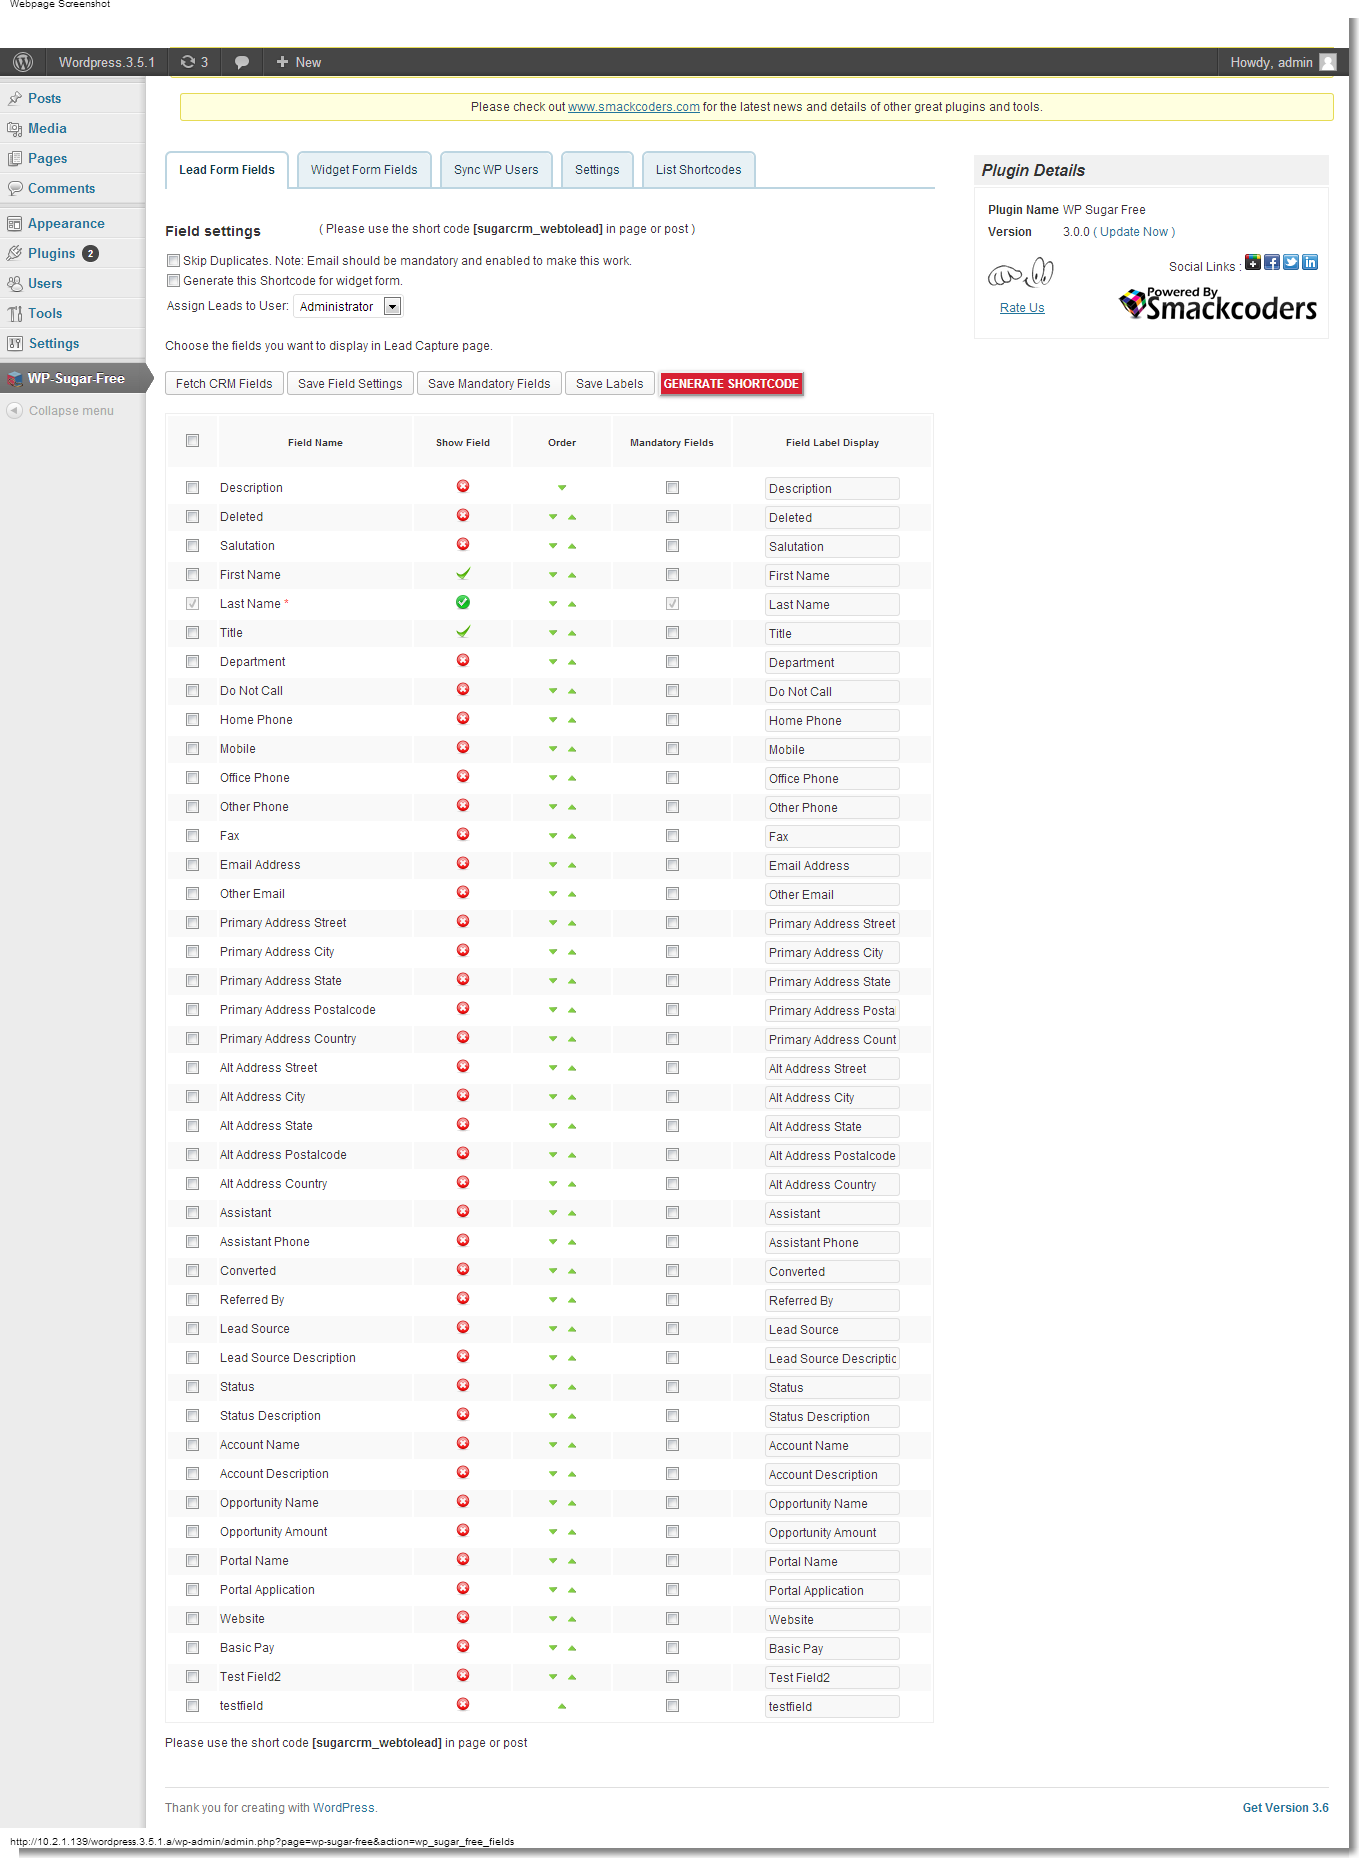
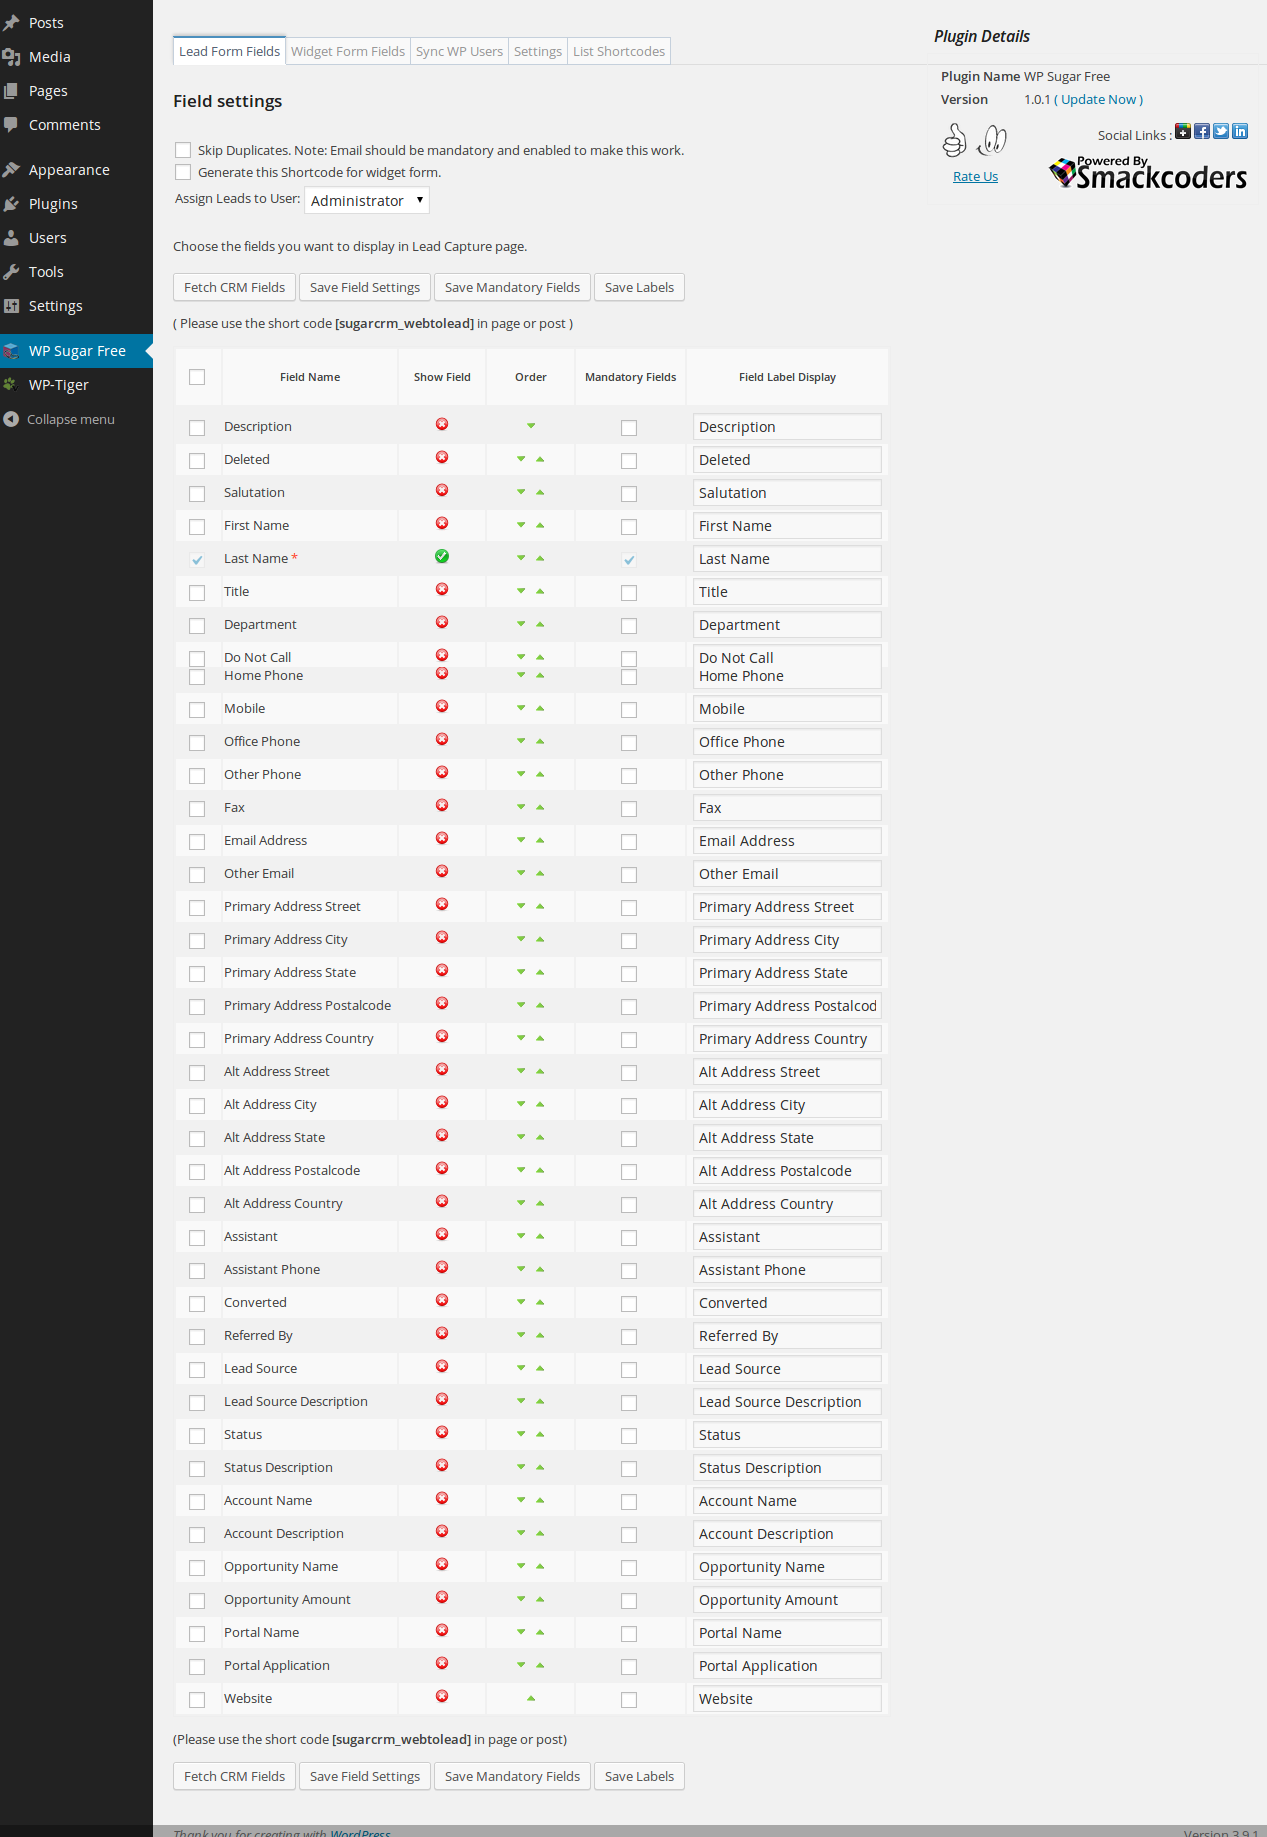
version 1.1.1 with minor bug fixes and Ui changes
git-svn-id: https://plugins.svn.wordpress.org/wp-sugar-free/trunk@927005 b8457f37-d9ea-0310-8a92-e5e31aec5664

diff --git a/widget-fields.php b/widget-fields.php
@@ -90,8 +90,8 @@ $content .= '<div class="sugar_free_left-side-content">
                         wpsugarfreesaveSettings();
                         </script>
                 <?php } 
-                        $content .= '<div style="width:20%;float:left;"><h3 class="title">Field settings</h3></div><div style="width:80%;float:right;"><p>( Please use the short code <b> [sugarcrm_webtolead_WG]</b> in page or post )</p></div><br/><br/>
-			<div style="margin-top:10px;">
+                        $content .= '<div style="width:20%;float:left;"><h3 class="title">Field settings</h3></div><br/>
+			<div style="margin-top:10px;"></br></br>
                         <div style="padding:2px;"><input type="checkbox" id="skipduplicate" onclick="wpsugarfreeupgradetopro()" /> Skip Duplicates. Note: Email should be mandatory and enabled to make this work. </div>
                         <div style="padding:2px;"><input type="checkbox" id="generateshortcode" onclick="wpsugarfreeupgradetopro()" /> Generate this Shortcode for widget form. </div>
                         <div style="padding:2px;">Assign Leads to User: <select id="assignto" onclick="wpsugarfreeupgradetopro()" ><option>Administrator</option><option>Standard User</option></select></div>
@@ -109,10 +109,8 @@ $content .= '<div class="sugar_free_left-side-content">
 			value="Save Mandatory Fields" onclick="wpsugarfreeupgradetopro()" /> <input
 			type="button" class="button-secondary submit-add-to-menu"
 			name="save_display_name" id="save_display_name" value="Save Labels"
-			onclick="wpsugarfreeupgradetopro()" /> <input type="button"
-			class="sugar-free-button-create-shortcode" name="create_shortcode"
-			id="create_shortcode" value="Generate Shortcode"
-			onclick="wpsugarfreeupgradetopro()" /><br/><br/>
+			onclick="wpsugarfreeupgradetopro()" /><br/>
+<div style="width:80%;"><p>( Please use the short code <b> [sugarcrm_webtolead_WG]</b> in page or post )</p></div>
 		<table class="sugar_free_tableborder">
 			<tr class="smack_sugar_free_alt">
 				<th style="width: 50px;"><input type="checkbox" name="selectall"
@@ -226,8 +224,21 @@ $imagepath = $contentUrl . '/plugins/wp-sugar-free/images/';
 				</tr>
 			</tbody>
 		</table>
-		<p>Please use the short code <b> [sugarcrm_webtolead_WG]</b> in page or post</p>
-		<input type="hidden" name="widget_field_posted"
+		<p>Please use the short code <b> [sugarcrm_webtolead_WG]</b> in page or post</p>';
+		$content .= '<input type="hidden" name="posted" value="posted" />
+                <br/>
+                <input type="button" class="button-secondary submit-add-to-menu"
+                        name="sync_crm_fields" value="Fetch CRM Fields"
+                        onclick="wpsugarfreeupgradetopro()" />
+                <input type="submit" value="Save Field Settings"
+                        class="button-secondary submit-add-to-menu" name="Submit" />
+                <input type="button" class="button-secondary submit-add-to-menu"
+                        name="make_mandatory" id="make_mandatory"
+                        value="Save Mandatory Fields" onclick="wpsugarfreeupgradetopro()" /> <input
+                        type="button" class="button-secondary submit-add-to-menu"
+                        name="save_display_name" id="save_display_name" value="Save Labels"
+                        onclick="wpsugarfreeupgradetopro()" />';
+		$content .='<input type="hidden" name="widget_field_posted"
 			value="posted" />
 
 	</form>

diff --git a/sugar-fields.php b/sugar-fields.php
@@ -103,8 +103,8 @@ $content .= '<div class="sugar_free_left-side-content">
                         wpsugarfreesaveSettings();
                         </script>
                 <?php } 
-                        $content .= '<div style="width:20%;float:left;"><h3 class="title">Field settings</h3></div><div style="width:80%;float:right;"><p>( Please use the short code <b> [sugarcrm_webtolead]</b> in page or post )</p></div><br/><br/>
-			<div style="margin-top:10px;">
+                        $content .= '<div style="width:20%;float:left;"><h3 class="title">Field settings</h3></div><br/><br/>
+			<div style="margin-top:10px;"></br>
                         <div style="padding:2px;"><input type="checkbox" id="skipduplicate" onclick="wpsugarfreeupgradetopro()" /> Skip Duplicates. Note: Email should be mandatory and enabled to make this work. </div>
                         <div style="padding:2px;"><input type="checkbox" id="generateshortcode" onclick="wpsugarfreeupgradetopro()" /> Generate this Shortcode for widget form. </div>
                         <div style="padding:2px;">Assign Leads to User: <select id="assignto" onclick="wpsugarfreeupgradetopro()" ><option>Administrator</option><option>Standard User</option></select></div>
@@ -122,10 +122,7 @@ $content .= '<div class="sugar_free_left-side-content">
 			value="Save Mandatory Fields" onclick="wpsugarfreeupgradetopro()" /> <input
 			type="button" class="button-secondary submit-add-to-menu"
 			name="save_display_name" id="save_display_name" value="Save Labels"
-			onclick="wpsugarfreeupgradetopro()" /> <input type="button"
-			class="sugar-free-button-create-shortcode" name="create_shortcode"
-			id="create_shortcode" value="Generate Shortcode"
-			onclick="wpsugarfreeupgradetopro()" /><br/><br/>
+			onclick="wpsugarfreeupgradetopro()" /> <div style="width:80%;"><p>( Please use the short code <b> [sugarcrm_webtolead]</b> in page or post )</p></div>
 		<table class="sugar_free_tableborder">
 			<tr class="smack_sugar_free_alt">
 				<th style="width: 50px;"><input type="checkbox" name="selectall"
@@ -239,11 +236,21 @@ $content .= '<div class="sugar_free_left-side-content">
 				</tr>
 			</tbody>
 		</table>
-		<p>Please use the short code <b> [sugarcrm_webtolead]</b> in page or post</p>
+		<p>(Please use the short code <b> [sugarcrm_webtolead]</b> in page or post)</p>
 		<input type="hidden" name="field_posted"
-			value="posted" />
-
-	</form>
+			value="posted" />';
+ $content .= '<input type="button" class="button-secondary submit-add-to-menu"
+                        name="sync_crm_fields" value="Fetch CRM Fields"
+                        onclick="wpsugarfreeupgradetopro()" />
+                <input type="submit" value="Save Field Settings"
+                        class="button-secondary submit-add-to-menu" name="Submit" />
+                <input type="button" class="button-secondary submit-add-to-menu"
+                        name="make_mandatory" id="make_mandatory"
+                        value="Save Mandatory Fields" onclick="wpsugarfreeupgradetopro()" /> <input
+                        type="button" class="button-secondary submit-add-to-menu"
+                        name="save_display_name" id="save_display_name" value="Save Labels"
+                        onclick="wpsugarfreeupgradetopro()" />';
+	$content .='</form>
 </div>
 <div class="sugar_free_right-side-content" >'.wpsugarfree_rightContent().'                                     
 </div>';

diff --git a/smack-sugar-shortcodes.php b/smack-sugar-shortcodes.php
@@ -280,8 +280,8 @@ if(isset($_REQUEST['widget_contactform']) && $_REQUEST['widget_contactform'])
 	}
 	$content.="<tr><td></td><td>";
 	$content.="<p>";
-	$content.="<input type='submit' class='wp-sugar-free-widget-area-submit' value='Submit' id='submit' name='submit'></p></td></tr>";
-	$content.="<tr><td></td><td style='font-size:9px;float:right;'>Generated by <a target='_blank' href='http://www.smackcoders.com/wordpress-sugar-integration-automated-multi-web-forms-generator-pro.html'>WP-Sugar</a></td></tr></table>";
+	$content.="<input type='submit' class='wp-sugar-free-widget-area-submit' value='Submit' id='submit' name='submit'></p>Generated by <a target='_blank' href='http://www.smackcoders.com/wordpress-sugar-integration-automated-multi-web-forms-generator-pro.html'>WP-Sugar</a></td></tr>";
+	$content.="</table>";
 	$content.="<input type='hidden' value='contactform' name='widget_contactform'>";
 	$content.="</form>";
 

diff --git a/pro-features.php b/pro-features.php
@@ -8,7 +8,8 @@ function wp_sugar_free_listShortcodes(){
                 <tr>
                         <h2>List of Shortcodes</h2>
                 </tr>
-                <tr class='smack_sugar_free_alt'>
+		<tr><img src="<?php echo WP_PLUGIN_URL;?>/wp-sugar-free/images/listshortcode.png" style="opacity:0.6;" onclick="wpsugarfreeupgradetopro();"/></tr>
+                <!--<tr class='smack_sugar_free_alt'>
                         <th class='list-view-th' style='width: 50px;'>#</th>
                         <th class='list-view-th' style='width: 450px;'>Shortcodes</th>
                         <th class='list-view-th' style='width: 90px;'>VT Module</th>
@@ -43,7 +44,7 @@ function wp_sugar_free_listShortcodes(){
                 <option value='delete'>Delete</option>
                 </select>
                 </td>
-                </tr>
+                </tr>-->
         	</table>
 
 <?php

diff --git a/wp-sugar-free.php b/wp-sugar-free.php
@@ -3,7 +3,7 @@
 *Plugin Name: WP Sugar free
 *Plugin URI: http://www.smackcoders.com
 *Description: Easy Lead capture Sugar Webforms and Contacts synchronization
-*Version: 1.1.0
+*Version: 1.1.1
 *Author: smackcoders.com
 *Author URI: http://www.smackcoders.com
 *
